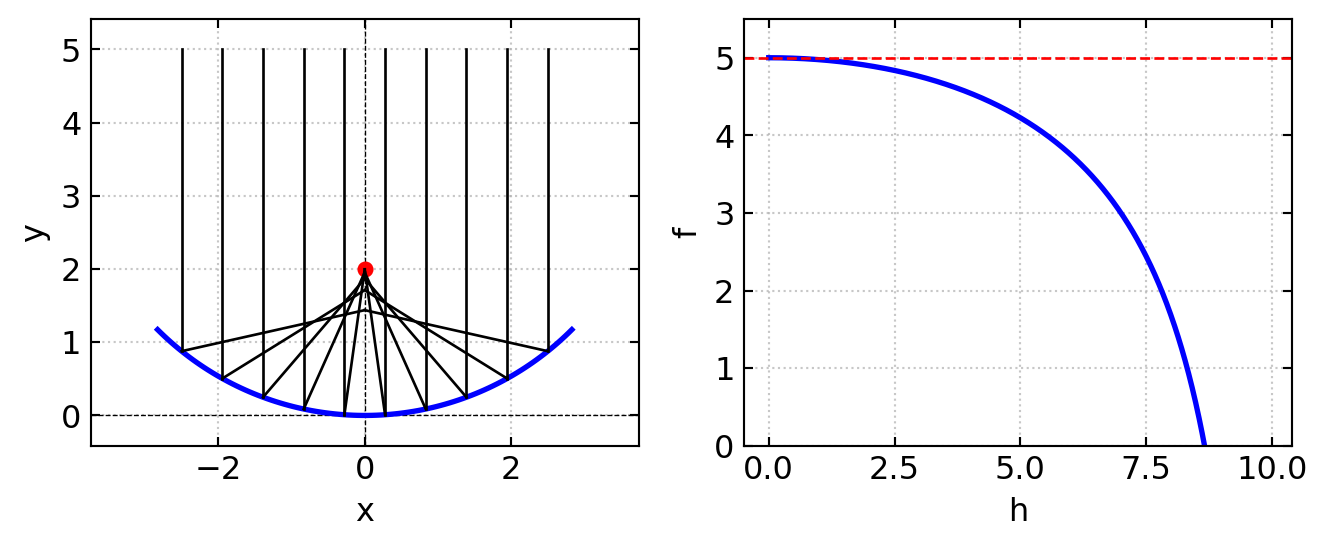
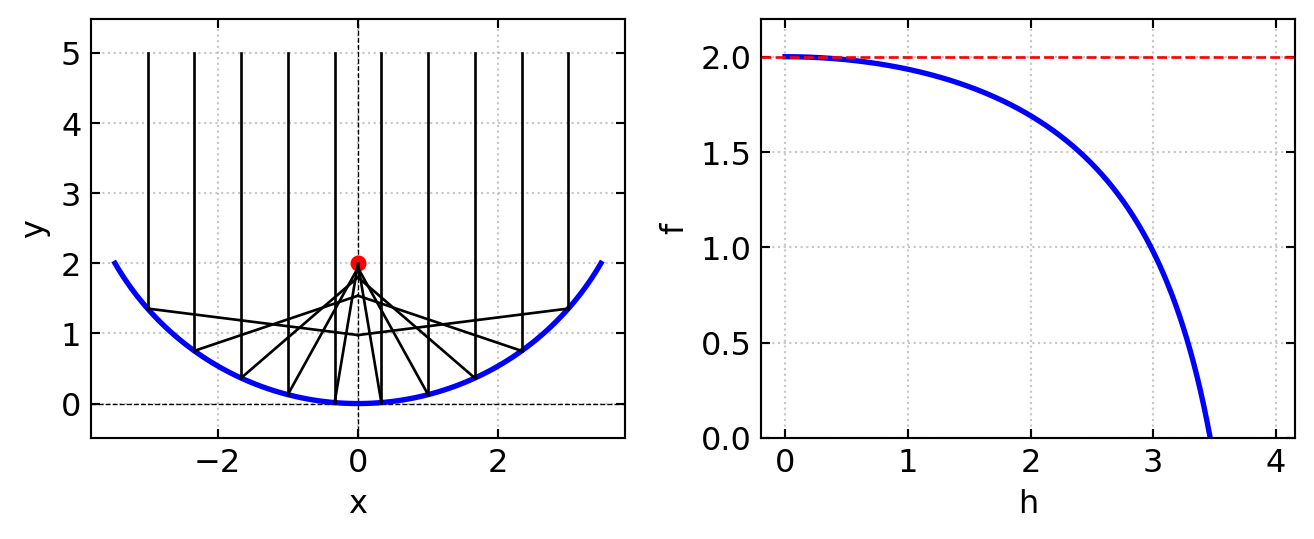
Built site for gh-pages

diff --git a/geometrical-optics/Optical Elements I.html b/geometrical-optics/Optical Elements I.html
@@ -488,83 +488,84 @@ Focal Length of a Concave Spherical Mirror
 <span id="cb1-10"><a href="#cb1-10" aria-hidden="true" tabindex="-1"></a></span>
 <span id="cb1-11"><a href="#cb1-11" aria-hidden="true" tabindex="-1"></a><span class="co"># Define the spherical mirror</span></span>
 <span id="cb1-12"><a href="#cb1-12" aria-hidden="true" tabindex="-1"></a>radius <span class="op">=</span> <span class="dv">4</span></span>
-<span id="cb1-13"><a href="#cb1-13" aria-hidden="true" tabindex="-1"></a>theta <span class="op">=</span> np.linspace(<span class="op">-</span>np.pi<span class="op">/</span><span class="dv">4</span>, np.pi<span class="op">/</span><span class="dv">4</span>, <span class="dv">100</span>)</span>
-<span id="cb1-14"><a href="#cb1-14" aria-hidden="true" tabindex="-1"></a>x <span class="op">=</span> radius <span class="op">*</span> np.sin(theta)</span>
-<span id="cb1-15"><a href="#cb1-15" aria-hidden="true" tabindex="-1"></a>y <span class="op">=</span> radius <span class="op">*</span> (<span class="dv">1</span> <span class="op">-</span> np.cos(theta))</span>
-<span id="cb1-16"><a href="#cb1-16" aria-hidden="true" tabindex="-1"></a></span>
-<span id="cb1-17"><a href="#cb1-17" aria-hidden="true" tabindex="-1"></a><span class="co"># Plot the spherical mirror</span></span>
-<span id="cb1-18"><a href="#cb1-18" aria-hidden="true" tabindex="-1"></a>ax1.plot(x, y, <span class="st">'b-'</span>, linewidth<span class="op">=</span><span class="dv">2</span>, label<span class="op">=</span><span class="st">'Spherical Mirror'</span>)</span>
-<span id="cb1-19"><a href="#cb1-19" aria-hidden="true" tabindex="-1"></a></span>
-<span id="cb1-20"><a href="#cb1-20" aria-hidden="true" tabindex="-1"></a><span class="co"># Calculate and plot the paraxial focal point</span></span>
-<span id="cb1-21"><a href="#cb1-21" aria-hidden="true" tabindex="-1"></a>paraxial_focal_length <span class="op">=</span> radius <span class="op">/</span> <span class="dv">2</span></span>
-<span id="cb1-22"><a href="#cb1-22" aria-hidden="true" tabindex="-1"></a>ax1.plot([<span class="dv">0</span>], [paraxial_focal_length], <span class="st">'ro'</span>, markersize<span class="op">=</span><span class="dv">5</span>, label<span class="op">=</span><span class="st">'Paraxial Focal Point'</span>)</span>
-<span id="cb1-23"><a href="#cb1-23" aria-hidden="true" tabindex="-1"></a></span>
-<span id="cb1-24"><a href="#cb1-24" aria-hidden="true" tabindex="-1"></a><span class="kw">def</span> reflect_ray(x0, y0):</span>
-<span id="cb1-25"><a href="#cb1-25" aria-hidden="true" tabindex="-1"></a>    xc, yc <span class="op">=</span> <span class="dv">0</span>, radius</span>
-<span id="cb1-26"><a href="#cb1-26" aria-hidden="true" tabindex="-1"></a></span>
-<span id="cb1-27"><a href="#cb1-27" aria-hidden="true" tabindex="-1"></a>    <span class="co"># Normal vector</span></span>
-<span id="cb1-28"><a href="#cb1-28" aria-hidden="true" tabindex="-1"></a>    nx, ny <span class="op">=</span> x0 <span class="op">-</span> xc, y0 <span class="op">-</span> yc</span>
-<span id="cb1-29"><a href="#cb1-29" aria-hidden="true" tabindex="-1"></a>    norm <span class="op">=</span> np.sqrt(nx<span class="op">**</span><span class="dv">2</span> <span class="op">+</span> ny<span class="op">**</span><span class="dv">2</span>)</span>
-<span id="cb1-30"><a href="#cb1-30" aria-hidden="true" tabindex="-1"></a>    nx, ny <span class="op">=</span> nx<span class="op">/</span>norm, ny<span class="op">/</span>norm</span>
-<span id="cb1-31"><a href="#cb1-31" aria-hidden="true" tabindex="-1"></a></span>
-<span id="cb1-32"><a href="#cb1-32" aria-hidden="true" tabindex="-1"></a>    ix, iy <span class="op">=</span> <span class="dv">0</span>, <span class="op">-</span><span class="dv">1</span></span>
-<span id="cb1-33"><a href="#cb1-33" aria-hidden="true" tabindex="-1"></a></span>
-<span id="cb1-34"><a href="#cb1-34" aria-hidden="true" tabindex="-1"></a>    <span class="co"># Reflected ray direction</span></span>
-<span id="cb1-35"><a href="#cb1-35" aria-hidden="true" tabindex="-1"></a>    dot_product <span class="op">=</span> <span class="dv">2</span> <span class="op">*</span> (ix<span class="op">*</span>nx <span class="op">+</span> iy<span class="op">*</span>ny)</span>
-<span id="cb1-36"><a href="#cb1-36" aria-hidden="true" tabindex="-1"></a>    rx, ry <span class="op">=</span> ix <span class="op">-</span> dot_product<span class="op">*</span>nx, iy <span class="op">-</span> dot_product<span class="op">*</span>ny</span>
-<span id="cb1-37"><a href="#cb1-37" aria-hidden="true" tabindex="-1"></a></span>
-<span id="cb1-38"><a href="#cb1-38" aria-hidden="true" tabindex="-1"></a>    <span class="cf">return</span> rx, ry</span>
-<span id="cb1-39"><a href="#cb1-39" aria-hidden="true" tabindex="-1"></a></span>
-<span id="cb1-40"><a href="#cb1-40" aria-hidden="true" tabindex="-1"></a><span class="co"># Plot several reflected rays</span></span>
-<span id="cb1-41"><a href="#cb1-41" aria-hidden="true" tabindex="-1"></a>num_rays <span class="op">=</span> <span class="dv">10</span></span>
-<span id="cb1-42"><a href="#cb1-42" aria-hidden="true" tabindex="-1"></a><span class="cf">for</span> x0 <span class="kw">in</span> np.linspace(<span class="op">-</span><span class="fl">2.5</span>, <span class="fl">2.5</span>, num_rays):</span>
-<span id="cb1-43"><a href="#cb1-43" aria-hidden="true" tabindex="-1"></a>    y0 <span class="op">=</span> radius <span class="op">-</span> np.sqrt(radius<span class="op">**</span><span class="dv">2</span> <span class="op">-</span> x0<span class="op">**</span><span class="dv">2</span>)</span>
-<span id="cb1-44"><a href="#cb1-44" aria-hidden="true" tabindex="-1"></a></span>
-<span id="cb1-45"><a href="#cb1-45" aria-hidden="true" tabindex="-1"></a>    <span class="co"># Incident ray</span></span>
-<span id="cb1-46"><a href="#cb1-46" aria-hidden="true" tabindex="-1"></a>    ax1.plot([x0, x0], [<span class="dv">5</span>, y0], <span class="st">'k-'</span>, linewidth<span class="op">=</span><span class="dv">1</span>)</span>
-<span id="cb1-47"><a href="#cb1-47" aria-hidden="true" tabindex="-1"></a></span>
-<span id="cb1-48"><a href="#cb1-48" aria-hidden="true" tabindex="-1"></a>    <span class="co"># Reflected ray</span></span>
-<span id="cb1-49"><a href="#cb1-49" aria-hidden="true" tabindex="-1"></a>    rx, ry <span class="op">=</span> reflect_ray(x0, y0)</span>
-<span id="cb1-50"><a href="#cb1-50" aria-hidden="true" tabindex="-1"></a>    t <span class="op">=</span> (<span class="dv">0</span> <span class="op">-</span> x0) <span class="op">/</span> rx  <span class="co"># parameter to reach x=0</span></span>
-<span id="cb1-51"><a href="#cb1-51" aria-hidden="true" tabindex="-1"></a>    x1, y1 <span class="op">=</span> x0 <span class="op">+</span> t<span class="op">*</span>rx, y0 <span class="op">+</span> t<span class="op">*</span>ry</span>
-<span id="cb1-52"><a href="#cb1-52" aria-hidden="true" tabindex="-1"></a>    ax1.plot([x0, x1], [y0, y1], <span class="st">'k-'</span>, linewidth<span class="op">=</span><span class="dv">1</span>)</span>
-<span id="cb1-53"><a href="#cb1-53" aria-hidden="true" tabindex="-1"></a></span>
-<span id="cb1-54"><a href="#cb1-54" aria-hidden="true" tabindex="-1"></a>ax1.set_xlabel(<span class="st">'x'</span>)</span>
-<span id="cb1-55"><a href="#cb1-55" aria-hidden="true" tabindex="-1"></a>ax1.set_ylabel(<span class="st">'y'</span>)</span>
-<span id="cb1-56"><a href="#cb1-56" aria-hidden="true" tabindex="-1"></a>ax1.grid(<span class="va">True</span>, linestyle<span class="op">=</span><span class="st">':'</span>, alpha<span class="op">=</span><span class="fl">0.7</span>)</span>
-<span id="cb1-57"><a href="#cb1-57" aria-hidden="true" tabindex="-1"></a>ax1.axis(<span class="st">'equal'</span>)</span>
-<span id="cb1-58"><a href="#cb1-58" aria-hidden="true" tabindex="-1"></a></span>
+<span id="cb1-13"><a href="#cb1-13" aria-hidden="true" tabindex="-1"></a></span>
+<span id="cb1-14"><a href="#cb1-14" aria-hidden="true" tabindex="-1"></a>theta <span class="op">=</span> np.linspace(<span class="op">-</span>np.pi<span class="op">/</span><span class="dv">3</span>, np.pi<span class="op">/</span><span class="dv">3</span>, <span class="dv">100</span>)</span>
+<span id="cb1-15"><a href="#cb1-15" aria-hidden="true" tabindex="-1"></a>x <span class="op">=</span> radius <span class="op">*</span> np.sin(theta)</span>
+<span id="cb1-16"><a href="#cb1-16" aria-hidden="true" tabindex="-1"></a>y <span class="op">=</span> radius <span class="op">*</span> (<span class="dv">1</span> <span class="op">-</span> np.cos(theta))</span>
+<span id="cb1-17"><a href="#cb1-17" aria-hidden="true" tabindex="-1"></a></span>
+<span id="cb1-18"><a href="#cb1-18" aria-hidden="true" tabindex="-1"></a><span class="co"># Plot the spherical mirror</span></span>
+<span id="cb1-19"><a href="#cb1-19" aria-hidden="true" tabindex="-1"></a>ax1.plot(x, y, <span class="st">'b-'</span>, linewidth<span class="op">=</span><span class="dv">2</span>, label<span class="op">=</span><span class="st">'Spherical Mirror'</span>)</span>
+<span id="cb1-20"><a href="#cb1-20" aria-hidden="true" tabindex="-1"></a></span>
+<span id="cb1-21"><a href="#cb1-21" aria-hidden="true" tabindex="-1"></a><span class="co"># Calculate and plot the paraxial focal point</span></span>
+<span id="cb1-22"><a href="#cb1-22" aria-hidden="true" tabindex="-1"></a>paraxial_focal_length <span class="op">=</span> radius <span class="op">/</span> <span class="dv">2</span></span>
+<span id="cb1-23"><a href="#cb1-23" aria-hidden="true" tabindex="-1"></a>ax1.plot([<span class="dv">0</span>], [paraxial_focal_length], <span class="st">'ro'</span>, markersize<span class="op">=</span><span class="dv">5</span>, label<span class="op">=</span><span class="st">'Paraxial Focal Point'</span>)</span>
+<span id="cb1-24"><a href="#cb1-24" aria-hidden="true" tabindex="-1"></a></span>
+<span id="cb1-25"><a href="#cb1-25" aria-hidden="true" tabindex="-1"></a><span class="kw">def</span> reflect_ray(x0, y0):</span>
+<span id="cb1-26"><a href="#cb1-26" aria-hidden="true" tabindex="-1"></a>    xc, yc <span class="op">=</span> <span class="dv">0</span>, radius</span>
+<span id="cb1-27"><a href="#cb1-27" aria-hidden="true" tabindex="-1"></a></span>
+<span id="cb1-28"><a href="#cb1-28" aria-hidden="true" tabindex="-1"></a>    <span class="co"># Normal vector</span></span>
+<span id="cb1-29"><a href="#cb1-29" aria-hidden="true" tabindex="-1"></a>    nx, ny <span class="op">=</span> x0 <span class="op">-</span> xc, y0 <span class="op">-</span> yc</span>
+<span id="cb1-30"><a href="#cb1-30" aria-hidden="true" tabindex="-1"></a>    norm <span class="op">=</span> np.sqrt(nx<span class="op">**</span><span class="dv">2</span> <span class="op">+</span> ny<span class="op">**</span><span class="dv">2</span>)</span>
+<span id="cb1-31"><a href="#cb1-31" aria-hidden="true" tabindex="-1"></a>    nx, ny <span class="op">=</span> nx<span class="op">/</span>norm, ny<span class="op">/</span>norm</span>
+<span id="cb1-32"><a href="#cb1-32" aria-hidden="true" tabindex="-1"></a></span>
+<span id="cb1-33"><a href="#cb1-33" aria-hidden="true" tabindex="-1"></a>    ix, iy <span class="op">=</span> <span class="dv">0</span>, <span class="op">-</span><span class="dv">1</span></span>
+<span id="cb1-34"><a href="#cb1-34" aria-hidden="true" tabindex="-1"></a></span>
+<span id="cb1-35"><a href="#cb1-35" aria-hidden="true" tabindex="-1"></a>    <span class="co"># Reflected ray direction</span></span>
+<span id="cb1-36"><a href="#cb1-36" aria-hidden="true" tabindex="-1"></a>    dot_product <span class="op">=</span> <span class="dv">2</span> <span class="op">*</span> (ix<span class="op">*</span>nx <span class="op">+</span> iy<span class="op">*</span>ny)</span>
+<span id="cb1-37"><a href="#cb1-37" aria-hidden="true" tabindex="-1"></a>    rx, ry <span class="op">=</span> ix <span class="op">-</span> dot_product<span class="op">*</span>nx, iy <span class="op">-</span> dot_product<span class="op">*</span>ny</span>
+<span id="cb1-38"><a href="#cb1-38" aria-hidden="true" tabindex="-1"></a></span>
+<span id="cb1-39"><a href="#cb1-39" aria-hidden="true" tabindex="-1"></a>    <span class="cf">return</span> rx, ry</span>
+<span id="cb1-40"><a href="#cb1-40" aria-hidden="true" tabindex="-1"></a></span>
+<span id="cb1-41"><a href="#cb1-41" aria-hidden="true" tabindex="-1"></a><span class="co"># Plot several reflected rays</span></span>
+<span id="cb1-42"><a href="#cb1-42" aria-hidden="true" tabindex="-1"></a>num_rays <span class="op">=</span> <span class="dv">10</span></span>
+<span id="cb1-43"><a href="#cb1-43" aria-hidden="true" tabindex="-1"></a><span class="cf">for</span> x0 <span class="kw">in</span> np.linspace(<span class="op">-</span><span class="dv">3</span>, <span class="dv">3</span>, num_rays):</span>
+<span id="cb1-44"><a href="#cb1-44" aria-hidden="true" tabindex="-1"></a>    y0 <span class="op">=</span> radius <span class="op">-</span> np.sqrt(radius<span class="op">**</span><span class="dv">2</span> <span class="op">-</span> x0<span class="op">**</span><span class="dv">2</span>)</span>
+<span id="cb1-45"><a href="#cb1-45" aria-hidden="true" tabindex="-1"></a></span>
+<span id="cb1-46"><a href="#cb1-46" aria-hidden="true" tabindex="-1"></a>    <span class="co"># Incident ray</span></span>
+<span id="cb1-47"><a href="#cb1-47" aria-hidden="true" tabindex="-1"></a>    ax1.plot([x0, x0], [<span class="dv">5</span>, y0], <span class="st">'k-'</span>, linewidth<span class="op">=</span><span class="dv">1</span>)</span>
+<span id="cb1-48"><a href="#cb1-48" aria-hidden="true" tabindex="-1"></a></span>
+<span id="cb1-49"><a href="#cb1-49" aria-hidden="true" tabindex="-1"></a>    <span class="co"># Reflected ray</span></span>
+<span id="cb1-50"><a href="#cb1-50" aria-hidden="true" tabindex="-1"></a>    rx, ry <span class="op">=</span> reflect_ray(x0, y0)</span>
+<span id="cb1-51"><a href="#cb1-51" aria-hidden="true" tabindex="-1"></a>    t <span class="op">=</span> (<span class="dv">0</span> <span class="op">-</span> x0) <span class="op">/</span> rx  <span class="co"># parameter to reach x=0</span></span>
+<span id="cb1-52"><a href="#cb1-52" aria-hidden="true" tabindex="-1"></a>    x1, y1 <span class="op">=</span> x0 <span class="op">+</span> t<span class="op">*</span>rx, y0 <span class="op">+</span> t<span class="op">*</span>ry</span>
+<span id="cb1-53"><a href="#cb1-53" aria-hidden="true" tabindex="-1"></a>    ax1.plot([x0, x1], [y0, y1], <span class="st">'k-'</span>, linewidth<span class="op">=</span><span class="dv">1</span>)</span>
+<span id="cb1-54"><a href="#cb1-54" aria-hidden="true" tabindex="-1"></a></span>
+<span id="cb1-55"><a href="#cb1-55" aria-hidden="true" tabindex="-1"></a>ax1.set_xlabel(<span class="st">'x'</span>)</span>
+<span id="cb1-56"><a href="#cb1-56" aria-hidden="true" tabindex="-1"></a>ax1.set_ylabel(<span class="st">'y'</span>)</span>
+<span id="cb1-57"><a href="#cb1-57" aria-hidden="true" tabindex="-1"></a>ax1.grid(<span class="va">True</span>, linestyle<span class="op">=</span><span class="st">':'</span>, alpha<span class="op">=</span><span class="fl">0.7</span>)</span>
+<span id="cb1-58"><a href="#cb1-58" aria-hidden="true" tabindex="-1"></a>ax1.axis(<span class="st">'equal'</span>)</span>
 <span id="cb1-59"><a href="#cb1-59" aria-hidden="true" tabindex="-1"></a></span>
-<span id="cb1-60"><a href="#cb1-60" aria-hidden="true" tabindex="-1"></a><span class="kw">def</span> focal_length(h, R):</span>
-<span id="cb1-61"><a href="#cb1-61" aria-hidden="true" tabindex="-1"></a>    <span class="cf">return</span> R <span class="op">*</span> (<span class="dv">1</span> <span class="op">-</span> R <span class="op">/</span> (<span class="dv">2</span> <span class="op">*</span> np.sqrt(R<span class="op">**</span><span class="dv">2</span> <span class="op">-</span> h<span class="op">**</span><span class="dv">2</span>)))</span>
-<span id="cb1-62"><a href="#cb1-62" aria-hidden="true" tabindex="-1"></a></span>
-<span id="cb1-63"><a href="#cb1-63" aria-hidden="true" tabindex="-1"></a>R <span class="op">=</span> <span class="dv">10</span>  <span class="co"># Radius of curvature</span></span>
-<span id="cb1-64"><a href="#cb1-64" aria-hidden="true" tabindex="-1"></a>h <span class="op">=</span> np.linspace(<span class="dv">0</span>, R<span class="op">*</span><span class="fl">0.99</span>, <span class="dv">1000</span>)  <span class="co"># Range of h values (avoiding h=R which would cause division by zero)</span></span>
-<span id="cb1-65"><a href="#cb1-65" aria-hidden="true" tabindex="-1"></a></span>
-<span id="cb1-66"><a href="#cb1-66" aria-hidden="true" tabindex="-1"></a>f <span class="op">=</span> focal_length(h, R)</span>
-<span id="cb1-67"><a href="#cb1-67" aria-hidden="true" tabindex="-1"></a></span>
-<span id="cb1-68"><a href="#cb1-68" aria-hidden="true" tabindex="-1"></a>ax2.plot(h, f, <span class="st">'b-'</span>, linewidth<span class="op">=</span><span class="dv">2</span>)</span>
-<span id="cb1-69"><a href="#cb1-69" aria-hidden="true" tabindex="-1"></a></span>
-<span id="cb1-70"><a href="#cb1-70" aria-hidden="true" tabindex="-1"></a>ax2.axhline(y<span class="op">=</span>R<span class="op">/</span><span class="dv">2</span>, color<span class="op">=</span><span class="st">'r'</span>, linestyle<span class="op">=</span><span class="st">'--'</span>, label<span class="op">=</span><span class="st">'Paraxial focal length (R/2)'</span>)</span>
-<span id="cb1-71"><a href="#cb1-71" aria-hidden="true" tabindex="-1"></a></span>
-<span id="cb1-72"><a href="#cb1-72" aria-hidden="true" tabindex="-1"></a>ax2.set_xlabel(<span class="st">'h'</span>)</span>
-<span id="cb1-73"><a href="#cb1-73" aria-hidden="true" tabindex="-1"></a>ax2.set_ylabel(<span class="st">'f'</span>)</span>
-<span id="cb1-74"><a href="#cb1-74" aria-hidden="true" tabindex="-1"></a>ax2.grid(<span class="va">True</span>, linestyle<span class="op">=</span><span class="st">':'</span>, alpha<span class="op">=</span><span class="fl">0.7</span>)</span>
-<span id="cb1-75"><a href="#cb1-75" aria-hidden="true" tabindex="-1"></a></span>
-<span id="cb1-76"><a href="#cb1-76" aria-hidden="true" tabindex="-1"></a>ax2.set_ylim(<span class="dv">0</span>, R<span class="op">/</span><span class="dv">2</span> <span class="op">*</span> <span class="fl">1.1</span>)</span>
-<span id="cb1-77"><a href="#cb1-77" aria-hidden="true" tabindex="-1"></a></span>
+<span id="cb1-60"><a href="#cb1-60" aria-hidden="true" tabindex="-1"></a></span>
+<span id="cb1-61"><a href="#cb1-61" aria-hidden="true" tabindex="-1"></a><span class="kw">def</span> focal_length(h, R):</span>
+<span id="cb1-62"><a href="#cb1-62" aria-hidden="true" tabindex="-1"></a>    <span class="cf">return</span> R <span class="op">*</span> (<span class="dv">1</span> <span class="op">-</span> R <span class="op">/</span> (<span class="dv">2</span> <span class="op">*</span> np.sqrt(R<span class="op">**</span><span class="dv">2</span> <span class="op">-</span> h<span class="op">**</span><span class="dv">2</span>)))</span>
+<span id="cb1-63"><a href="#cb1-63" aria-hidden="true" tabindex="-1"></a></span>
+<span id="cb1-64"><a href="#cb1-64" aria-hidden="true" tabindex="-1"></a>R <span class="op">=</span> <span class="dv">4</span>  <span class="co"># Radius of curvature</span></span>
+<span id="cb1-65"><a href="#cb1-65" aria-hidden="true" tabindex="-1"></a>h <span class="op">=</span> np.linspace(<span class="dv">0</span>, R<span class="op">*</span><span class="fl">0.99</span>, <span class="dv">1000</span>)  <span class="co"># Range of h values (avoiding h=R which would cause division by zero)</span></span>
+<span id="cb1-66"><a href="#cb1-66" aria-hidden="true" tabindex="-1"></a></span>
+<span id="cb1-67"><a href="#cb1-67" aria-hidden="true" tabindex="-1"></a>f <span class="op">=</span> focal_length(h, R)</span>
+<span id="cb1-68"><a href="#cb1-68" aria-hidden="true" tabindex="-1"></a></span>
+<span id="cb1-69"><a href="#cb1-69" aria-hidden="true" tabindex="-1"></a>ax2.plot(h, f, <span class="st">'b-'</span>, linewidth<span class="op">=</span><span class="dv">2</span>)</span>
+<span id="cb1-70"><a href="#cb1-70" aria-hidden="true" tabindex="-1"></a></span>
+<span id="cb1-71"><a href="#cb1-71" aria-hidden="true" tabindex="-1"></a>ax2.axhline(y<span class="op">=</span>R<span class="op">/</span><span class="dv">2</span>, color<span class="op">=</span><span class="st">'r'</span>, linestyle<span class="op">=</span><span class="st">'--'</span>, label<span class="op">=</span><span class="st">'Paraxial focal length (R/2)'</span>)</span>
+<span id="cb1-72"><a href="#cb1-72" aria-hidden="true" tabindex="-1"></a></span>
+<span id="cb1-73"><a href="#cb1-73" aria-hidden="true" tabindex="-1"></a>ax2.set_xlabel(<span class="st">'h'</span>)</span>
+<span id="cb1-74"><a href="#cb1-74" aria-hidden="true" tabindex="-1"></a>ax2.set_ylabel(<span class="st">'f'</span>)</span>
+<span id="cb1-75"><a href="#cb1-75" aria-hidden="true" tabindex="-1"></a>ax2.grid(<span class="va">True</span>, linestyle<span class="op">=</span><span class="st">':'</span>, alpha<span class="op">=</span><span class="fl">0.7</span>)</span>
+<span id="cb1-76"><a href="#cb1-76" aria-hidden="true" tabindex="-1"></a></span>
+<span id="cb1-77"><a href="#cb1-77" aria-hidden="true" tabindex="-1"></a>ax2.set_ylim(<span class="dv">0</span>, R<span class="op">/</span><span class="dv">2</span> <span class="op">*</span> <span class="fl">1.1</span>)</span>
 <span id="cb1-78"><a href="#cb1-78" aria-hidden="true" tabindex="-1"></a></span>
-<span id="cb1-79"><a href="#cb1-79" aria-hidden="true" tabindex="-1"></a>plt.tight_layout()</span>
-<span id="cb1-80"><a href="#cb1-80" aria-hidden="true" tabindex="-1"></a>plt.show()</span></code><button title="Copy to Clipboard" class="code-copy-button"><i class="bi"></i></button></pre></div>
+<span id="cb1-79"><a href="#cb1-79" aria-hidden="true" tabindex="-1"></a></span>
+<span id="cb1-80"><a href="#cb1-80" aria-hidden="true" tabindex="-1"></a>plt.tight_layout()</span>
+<span id="cb1-81"><a href="#cb1-81" aria-hidden="true" tabindex="-1"></a>plt.show()</span></code><button title="Copy to Clipboard" class="code-copy-button"><i class="bi"></i></button></pre></div>
 </details>
 <div class="cell-output cell-output-display">
 <div id="fig-spherical-mirror" class="quarto-float quarto-figure quarto-figure-center anchored">
 <figure class="quarto-float quarto-float-fig figure">
 <div aria-describedby="fig-spherical-mirror-caption-0ceaefa1-69ba-4598-a22c-09a6ac19f8ca">
-<img src="Optical Elements I_files/figure-html/fig-spherical-mirror-output-1.png" width="663" height="274" class="figure-img">
+<img src="Optical Elements I_files/figure-html/fig-spherical-mirror-output-1.png" width="657" height="270" class="figure-img">
 </div>
 <figcaption class="quarto-float-caption-bottom quarto-float-caption quarto-float-fig" id="fig-spherical-mirror-caption-0ceaefa1-69ba-4598-a22c-09a6ac19f8ca">
-Figure&nbsp;4: Spherical mirror reflecting parallel rays, showing spherical aberration and focal distance as a function of the distance from the optical axis <span class="math inline">\(h\)</span>.
+Figure&nbsp;4: Spherical mirror of radius <span class="math inline">\(R=4\)</span> reflecting parallel rays, showing spherical aberration and focal distance as a function of the distance from the optical axis <span class="math inline">\(h\)</span>.
 </figcaption>
 </figure>
 </div>

diff --git a/geometrical-optics/Optical Elements II.html b/geometrical-optics/Optical Elements II.html
@@ -20,6 +20,40 @@ ul.task-list li input[type="checkbox"] {
   margin: 0 0.8em 0.2em -1em; /* quarto-specific, see https://github.com/quarto-dev/quarto-cli/issues/4556 */ 
   vertical-align: middle;
 }
+/* CSS for syntax highlighting */
+pre > code.sourceCode { white-space: pre; position: relative; }
+pre > code.sourceCode > span { line-height: 1.25; }
+pre > code.sourceCode > span:empty { height: 1.2em; }
+.sourceCode { overflow: visible; }
+code.sourceCode > span { color: inherit; text-decoration: inherit; }
+div.sourceCode { margin: 1em 0; }
+pre.sourceCode { margin: 0; }
+@media screen {
+div.sourceCode { overflow: auto; }
+}
+@media print {
+pre > code.sourceCode { white-space: pre-wrap; }
+pre > code.sourceCode > span { display: inline-block; text-indent: -5em; padding-left: 5em; }
+}
+pre.numberSource code
+  { counter-reset: source-line 0; }
+pre.numberSource code > span
+  { position: relative; left: -4em; counter-increment: source-line; }
+pre.numberSource code > span > a:first-child::before
+  { content: counter(source-line);
+    position: relative; left: -1em; text-align: right; vertical-align: baseline;
+    border: none; display: inline-block;
+    -webkit-touch-callout: none; -webkit-user-select: none;
+    -khtml-user-select: none; -moz-user-select: none;
+    -ms-user-select: none; user-select: none;
+    padding: 0 4px; width: 4em;
+  }
+pre.numberSource { margin-left: 3em;  padding-left: 4px; }
+div.sourceCode
+  {   }
+@media screen {
+pre > code.sourceCode > span > a:first-child::before { text-decoration: underline; }
+}
 </style>
 
 
@@ -337,8 +371,6 @@ Figure&nbsp;1: Refraction of rays on a prism.
 <!--
 
 
-
-
 ```{=html}
 <div id="prism-viz" align="middle"></div>
 <input type="range" id="angle-slider" min="0" max="90" value="30" step="0.1">
@@ -464,35 +496,35 @@ d3.select("#angle-slider")
 
 
 
-
-
-#### Deflection angle
-
-We can calculate the deflection angle $\delta$ from a number of considerations. First consider the following relations between the angles in the prism and Snell's law
-
-$$\beta_1=\sin^{-1}\left (\frac{n_0}{n_1}\sin(\alpha_1) \right)$$
-$$\beta_2=\gamma-\beta_1$$
-$$\alpha_2=\sin^{-1}\left (\frac{n_1}{n_0}\sin(\beta_2)\right )$$
-$$\theta_2=\alpha_2-\gamma$$
-
-where $\theta_2$ is the angle between the incident surface normal and the outgoing ray. The total deflection angle $\delta$ is then
-
-$$\delta =\alpha_1-\beta_1+\alpha_2-\beta_2$$
-
-or
-
-$$\delta =\alpha_1+\alpha_2-\gamma$$
-
-from which we obtain
-
-$$\delta=\alpha_1+\sin^{-1}\left (\frac{n_1}{n_0}\sin\left [\gamma-\sin^{-1}\left (\frac{n_0}{n_1}\sin(\alpha_1) \right)\right]\right )-\gamma$$
-
-as the deflection angle.
-
-
-
 -->
-<div id="cell-fig-refractive-indices" class="cell" data-execution_count="3">
+<section id="deflection-angle" class="level4">
+<h4 class="anchored" data-anchor-id="deflection-angle">Deflection angle</h4>
+<p>We can calculate the deflection angle <span class="math inline">\(\delta\)</span> from a number of considerations. First consider the following relations between the angles in the prism and Snell’s law</p>
+<p><span class="math display">\[\beta_1=\sin^{-1}\left (\frac{n_0}{n_1}\sin(\alpha_1) \right)\]</span> <span class="math display">\[\beta_2=\gamma-\beta_1\]</span> <span class="math display">\[\alpha_2=\sin^{-1}\left (\frac{n_1}{n_0}\sin(\beta_2)\right )\]</span> <span class="math display">\[\theta_2=\alpha_2-\gamma\]</span></p>
+<p>where <span class="math inline">\(\theta_2\)</span> is the angle between the incident surface normal and the outgoing ray. The total deflection angle <span class="math inline">\(\delta\)</span> is then</p>
+<p><span class="math display">\[\delta =\alpha_1-\beta_1+\alpha_2-\beta_2\]</span></p>
+<p>or</p>
+<p><span class="math display">\[\delta =\alpha_1+\alpha_2-\gamma\]</span></p>
+<p>from which we obtain</p>
+<p><span class="math display">\[\delta=\alpha_1+\sin^{-1}\left (\frac{n_1}{n_0}\sin\left [\gamma-\sin^{-1}\left (\frac{n_0}{n_1}\sin(\alpha_1) \right)\right]\right )-\gamma\]</span></p>
+<p>as the deflection angle.</p>
+<div id="cell-fig-refractive-indices" class="cell" data-cold-fold="true" data-execution_count="2">
+<details class="code-fold">
+<summary>Code</summary>
+<div class="sourceCode cell-code" id="cb1"><pre class="sourceCode python code-with-copy"><code class="sourceCode python"><span id="cb1-1"><a href="#cb1-1" aria-hidden="true" tabindex="-1"></a><span class="kw">def</span> deflection(alpha_1,gamma,n0,n1):</span>
+<span id="cb1-2"><a href="#cb1-2" aria-hidden="true" tabindex="-1"></a>    g<span class="op">=</span>gamma<span class="op">*</span>np.pi<span class="op">/</span><span class="dv">180</span></span>
+<span id="cb1-3"><a href="#cb1-3" aria-hidden="true" tabindex="-1"></a>    <span class="cf">return</span>(alpha_1<span class="op">+</span>np.arcsin(n1<span class="op">*</span>np.sin(g<span class="op">-</span>np.arcsin(n0<span class="op">*</span>np.sin(alpha_1)<span class="op">/</span>n1))))<span class="op">-</span>g</span>
+<span id="cb1-4"><a href="#cb1-4" aria-hidden="true" tabindex="-1"></a></span>
+<span id="cb1-5"><a href="#cb1-5" aria-hidden="true" tabindex="-1"></a>a_1<span class="op">=</span>np.linspace(<span class="fl">0.1</span>,np.pi<span class="op">/</span><span class="dv">2</span>,<span class="dv">100</span>)</span>
+<span id="cb1-6"><a href="#cb1-6" aria-hidden="true" tabindex="-1"></a>plt.figure(figsize<span class="op">=</span>(<span class="dv">4</span>,<span class="dv">4</span>))</span>
+<span id="cb1-7"><a href="#cb1-7" aria-hidden="true" tabindex="-1"></a>plt.plot(a_1<span class="op">*</span><span class="dv">180</span><span class="op">/</span>np.pi,deflection(a_1,<span class="dv">45</span>,<span class="dv">1</span>,<span class="fl">1.5</span>)<span class="op">*</span><span class="dv">180</span><span class="op">/</span>np.pi,label<span class="op">=</span><span class="vs">r"$\gamma=45$ °"</span>)</span>
+<span id="cb1-8"><a href="#cb1-8" aria-hidden="true" tabindex="-1"></a>plt.plot(a_1<span class="op">*</span><span class="dv">180</span><span class="op">/</span>np.pi,deflection(a_1,<span class="dv">30</span>,<span class="dv">1</span>,<span class="fl">1.5</span>)<span class="op">*</span><span class="dv">180</span><span class="op">/</span>np.pi,label<span class="op">=</span><span class="vs">r"$\gamma=30$ °"</span>)</span>
+<span id="cb1-9"><a href="#cb1-9" aria-hidden="true" tabindex="-1"></a>plt.plot(a_1<span class="op">*</span><span class="dv">180</span><span class="op">/</span>np.pi,deflection(a_1,<span class="dv">10</span>,<span class="dv">1</span>,<span class="fl">1.5</span>)<span class="op">*</span><span class="dv">180</span><span class="op">/</span>np.pi,label<span class="op">=</span><span class="vs">r"$\gamma=10$ °"</span>)</span>
+<span id="cb1-10"><a href="#cb1-10" aria-hidden="true" tabindex="-1"></a>plt.xlabel(<span class="vs">r"incindence angle $\alpha_1$ [°]"</span>)</span>
+<span id="cb1-11"><a href="#cb1-11" aria-hidden="true" tabindex="-1"></a>plt.ylabel(<span class="vs">r"deflection angle $\delta$ [°]"</span>)</span>
+<span id="cb1-12"><a href="#cb1-12" aria-hidden="true" tabindex="-1"></a>plt.legend()</span>
+<span id="cb1-13"><a href="#cb1-13" aria-hidden="true" tabindex="-1"></a>plt.show()</span></code><button title="Copy to Clipboard" class="code-copy-button"><i class="bi"></i></button></pre></div>
+</details>
 <div class="cell-output cell-output-display">
 <div id="fig-refractive-indices" class="quarto-float quarto-figure quarto-figure-center anchored" data-fig-align="center">
 <figure class="quarto-float quarto-float-fig figure">
@@ -506,6 +538,7 @@ Figure&nbsp;2: Deflection angle as a function of the incidence angle for differe
 </div>
 </div>
 </div>
+</section>
 <section id="minimum-deflection-angle" class="level4">
 <h4 class="anchored" data-anchor-id="minimum-deflection-angle">Minimum deflection angle</h4>
 <p>If we now would like to know how the deflection angle changes with the incident angle <span class="math inline">\(\alpha_1\)</span>, we calculate the derivative of the deflection angle <span class="math inline">\(\delta\)</span> with respect to <span class="math inline">\(\alpha_1\)</span>, i.e.,</p>
@@ -541,7 +574,7 @@ Minimum prism deflection
 <section id="dispersion" class="level4">
 <h4 class="anchored" data-anchor-id="dispersion">Dispersion</h4>
 <p>Very important applications now arise from the fact, that the refractive index is a material property, which depends on the color (frequency or wavelength) of light. We do not yet understand the origin of this dependence. The plots below show the wavelength dependence of three different glasses. You may find much more data on the refractive index of different materials in an <a href="https://refractiveindex.info/">online database</a>.</p>
-<div id="cell-fig-wavelength-dependence" class="cell" data-execution_count="5">
+<div id="cell-fig-wavelength-dependence" class="cell" data-execution_count="4">
 <div class="cell-output cell-output-display">
 <div id="fig-wavelength-dependence" class="quarto-float quarto-figure quarto-figure-center anchored" data-fig-align="center">
 <figure class="quarto-float quarto-float-fig figure">
@@ -555,7 +588,7 @@ Figure&nbsp;3: Refractive index of different glasses as a function of the wavele
 </div>
 </div>
 </div>
-<div id="cell-fig-angle-dependence" class="cell" data-execution_count="7">
+<div id="cell-fig-angle-dependence" class="cell" data-execution_count="6">
 <div class="cell-output cell-output-display">
 <div id="fig-angle-dependence" class="quarto-float quarto-figure quarto-figure-center anchored">
 <figure class="quarto-float quarto-float-fig figure">
@@ -687,7 +720,7 @@ Figure&nbsp;8: Home made water prism.
 </figure>
 </div>
 <p>While the dependence of water’s refractive index on wavelength is relatively weak, it’s still sufficient to demonstrate the familiar colors of the rainbow. This phenomenon will be referenced later in our discussion.</p>
-<div id="cell-fig-water-n" class="cell" data-execution_count="9">
+<div id="cell-fig-water-n" class="cell" data-execution_count="8">
 <div class="cell-output cell-output-display">
 <div id="fig-water-n" class="quarto-float quarto-figure quarto-figure-center anchored">
 <figure class="quarto-float quarto-float-fig figure">

diff --git a/geometrical-optics/Rainbow.html b/geometrical-optics/Rainbow.html
@@ -351,7 +351,7 @@ window.Quarto = {
 </header>
 
 
-<div id="f8f8731b" class="cell" data-execution_count="1">
+<div id="90d2a76f" class="cell" data-execution_count="1">
 <div class="sourceCode cell-code" id="cb1"><pre class="sourceCode python code-with-copy"><code class="sourceCode python"><span id="cb1-1"><a href="#cb1-1" aria-hidden="true" tabindex="-1"></a><span class="co">## just for plotting later</span></span>
 <span id="cb1-2"><a href="#cb1-2" aria-hidden="true" tabindex="-1"></a></span>
 <span id="cb1-3"><a href="#cb1-3" aria-hidden="true" tabindex="-1"></a><span class="im">import</span> pandas <span class="im">as</span> pd</span>
@@ -391,7 +391,7 @@ window.Quarto = {
 <p>such that finally</p>
 <p><span class="math display">\[\phi=4\sin^{-1}\left (\frac{n_{\rm air}}{n_{\rm water}}\sin(\alpha) \right)-2\alpha\]</span></p>
 <p>So let us have a look at this dependence of the deflection angle as a function of the incidence angle.</p>
-<div id="3f430e98" class="cell" data-execution_count="4">
+<div id="6105b6fd" class="cell" data-execution_count="4">
 <div class="cell-output cell-output-display">
 <div class="quarto-figure quarto-figure-center">
 <figure class="figure">
@@ -402,7 +402,7 @@ window.Quarto = {
 </div>
 </div>
 <p>The dependence seems to show a maximum deflection angle at an incidence angle of around <span class="math inline">\(\alpha=60^{\circ}\)</span>. This is an important finding, as the whole appearance of the rainbow depends on that.</p>
-<div id="402edaf7" class="cell" data-execution_count="5">
+<div id="7d4ca3a9" class="cell" data-execution_count="5">
 <div class="cell-output cell-output-stdout">
 <pre><code>Maximum deflection angle  41.78815648670841</code></pre>
 </div>
@@ -411,7 +411,7 @@ window.Quarto = {
 <section id="color-of-the-rainbow" class="level3">
 <h3 class="anchored" data-anchor-id="color-of-the-rainbow">Color of the rainbow</h3>
 <p>The color of the rainbow is now the result of the fact that the maximum deflection angle depends on the color of the light due to the dispersion. Since we have a refraction, reflection and another refraction, the largest maximum deflection angle is observed for red light, while the smallest one appears for blue light. The diagrams below show this result, which is in general true for materials with normal dispersion.</p>
-<div id="71860129" class="cell" data-execution_count="6">
+<div id="d97baaf0" class="cell" data-execution_count="6">
 <div class="cell-output cell-output-display">
 <div class="quarto-figure quarto-figure-center">
 <figure class="figure">
@@ -423,7 +423,7 @@ window.Quarto = {
 </div>
 <p>This order of the colors is actually true for all incident angles, which raises the question, why the rainbow is actually colored. The blue color of a certain incidence angle would actually overlap with the green color of a different incidence angle and the red color of an even different incidence angle. If you select a specific outgoing angle under which you observe the rainbow, let us say 41°, then you find under this observation angle all color and, therefore, should observe always white light.</p>
 <p>This is actually true if you look at the inside of a rainbow. You clearly recognize that inside the rainbow it is much brighter than outside. Yet when you reach the maximum angle of each color, you have a region, where even for larger angles for the incidence angles, the deflection angle does not change. Thus, if you assume you send in rays at constantly spaced incidence angles, you will have more rays with a deflection angle close to the maximum. The diagram below just counts the number of deflection angles in the different for each color and you clearly see that around the maximum deflection angles for each color you have a strong peak.</p>
-<div id="139f9477" class="cell" data-execution_count="7">
+<div id="abe4c98c" class="cell" data-execution_count="7">
 <div class="cell-output cell-output-display">
 <div class="quarto-figure quarto-figure-center">
 <figure class="figure">

diff --git a/course-info/schedule.html b/course-info/schedule.html
@@ -264,10 +264,7 @@ ul.task-list li input[type="checkbox"] {
    
   <ul>
   <li><a href="#lectures" id="toc-lectures" class="nav-link active" data-scroll-target="#lectures">Lectures</a></li>
-  <li><a href="#seminars" id="toc-seminars" class="nav-link" data-scroll-target="#seminars">Seminars</a>
-  <ul class="collapse">
-  <li><a href="#seminar-times" id="toc-seminar-times" class="nav-link" data-scroll-target="#seminar-times">Seminar Times</a></li>
-  </ul></li>
+  <li><a href="#seminars" id="toc-seminars" class="nav-link" data-scroll-target="#seminars">Seminars</a></li>
   </ul>
 </nav>
     </div>
@@ -330,16 +327,25 @@ Seminar Start
 <p><strong>The seminars will start on October 22</strong> <strong>The solutions to the exercise sheets have to be handed in on Thursdays before the lecture.</strong></p>
 </div>
 </div>
-<section id="seminar-times" class="level2">
-<h2 class="anchored" data-anchor-id="seminar-times">Seminar Times</h2>
+<div class="callout callout-style-default callout-note callout-titled">
+<div class="callout-header d-flex align-content-center">
+<div class="callout-icon-container">
+<i class="callout-icon"></i>
+</div>
+<div class="callout-title-container flex-fill">
+Seminar Times
+</div>
+</div>
+<div class="callout-body-container callout-body">
 <ul>
 <li>Tuesday 11:15 am – 12:45 pm, SR 224</li>
 <li>Tuesday 15:15 am – 16:45 pm, ThHS</li>
 </ul>
+</div>
+</div>
 <p>The seminar will be held by Diptabrata Paul and Markus Anton.</p>
 
 
-</section>
 </section>
 
 </main> <!-- /main -->

diff --git a/geometrical-optics/Optical Elements III.html b/geometrical-optics/Optical Elements III.html
@@ -406,7 +406,7 @@ Paraxial Approximation
 <li>The error increases rapidly for larger angles, indicating the limitations of the paraxial approximation.</li>
 </ol>
 <p>In most optical systems, especially those involving lenses, the angles of incident and refracted rays are typically small enough for this approximation to be valid. However, it’s important to be aware of its limitations when dealing with wide-angle optical systems or scenarios where precision is critical.</p>
-<div id="903b41f7" class="cell" data-execution_count="2">
+<div id="dd8f6f42" class="cell" data-execution_count="2">
 <details class="code-fold">
 <summary>Code</summary>
 <div class="sourceCode cell-code" id="cb1"><pre class="sourceCode python code-with-copy"><code class="sourceCode python"><span id="cb1-1"><a href="#cb1-1" aria-hidden="true" tabindex="-1"></a><span class="im">import</span> numpy <span class="im">as</span> np</span>
